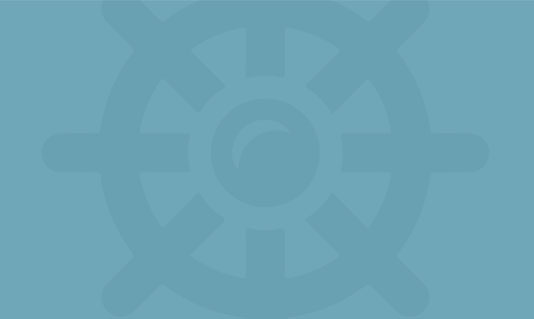
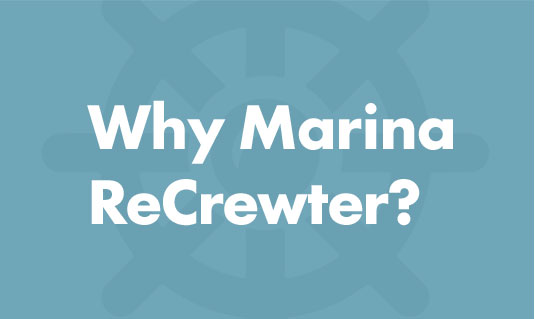
last minute fixes

diff --git a/jobportal/css/customize.css b/jobportal/css/customize.css
@@ -217,7 +217,7 @@ p{ text-align:justify; }
 	text-transform: capitalize;
 }
 .services .head,
-.what-do .head p{ line-height: 25px;}
+.what-do .head p{ text-align: center; line-height: 25px;}
 
 .services .head{ padding: 0 0 12px;}
 /*.what-do .head h2 span {
@@ -730,7 +730,7 @@ p{ text-align:justify; }
 }
 .image-section .butn.cv:hover{ background:#6d9cac url(../images/ico-captain.png) no-repeat 12% 50%; }
 .image-section .image{
-	padding:0 2px;
+	padding:0;
 	margin:0 0 10px;
 	overflow:hidden;
 }
@@ -974,8 +974,7 @@ p{ text-align:justify; }
 	background:url(../images/popup-bg.jpg) no-repeat center top;
 	background-size:cover;
 	padding:20px 0;
-	position:relative;
-	z-index:9999;
+	overflow:auto !important;
 }
 .popup .container{ position:relative; }
 .popup .ico-close{
@@ -1352,7 +1351,7 @@ p{ text-align:justify; }
 		display:block;
 		background:#2d4658 url(../images/ico-enquire.png) no-repeat 25% 50%;
 		font-size:31px;
-		line-height:82px;
+		line-height:86px;
 		font-weight:bold;
 		border-radius:0;
 		text-align:center;
@@ -1365,7 +1364,7 @@ p{ text-align:justify; }
 	}
 	.image-section .butn.cv:hover{ background:#6d9cac url(../images/ico-captain.png) no-repeat 12% 50%; }
 	.image-section .image{
-		padding:0 2px;
+		padding:0;
 		margin:0 0 10px;
 	}
 	.note{

diff --git a/jobportal/crew.php b/jobportal/crew.php
@@ -55,10 +55,13 @@
 			</div>
 		</div>
 	</div>
-	<section class="what-do">
+	<a href="#myModal3" role="button" data-toggle="modal">
+	  <section class="what-do">
         <div class="container head">
-          <h2><span>CONSULTANCY/ADVICE</span></h2>
-          <p>Whether you are an experienced candidate or a new talent, it is our goal to help advance your career and hopefully contribute to securing your next job. We are committed to assist and advice. You will be supported by our hands-on approach, an honest assessment matching realistic opportunities.</p>
+          <h2><span>WHY Marina ReCrewter? </span></h2>
+          <p>We have experienced firsthand the effects of not having the right profile on board; inadequate manning requirements, high turnover – increased costs and most importantly the dissatisfaction of Owners and Guests. Getting the right candidate first time is our priority. </p>
         </div>
 	</section>
+</a>
+<?php  include('popup.php');?>
 <?php include('include/footer.php');?>

diff --git a/jobportal/advice.php b/jobportal/advice.php
@@ -29,8 +29,8 @@
 <a href="#myModal3" role="button" data-toggle="modal">
 	  <section class="what-do">
         <div class="container head">
-          <h2><span>Candidates – Work &amp; Live Your Dream!</span></h2>
-          <p>Whether you are an experienced candidate or a new talent, it is our goal to help advance your career and hopefully contribute to securing your next job. We are committed to assist and advice. You will be supported by our hands-on approach, an honest assessment matching realistic opportunities.</p>
+          <h2><span>WHY Marina ReCrewter? </span></h2>
+          <p>We have experienced firsthand the effects of not having the right profile on board; inadequate manning requirements, high turnover – increased costs and most importantly the dissatisfaction of Owners and Guests. Getting the right candidate first time is our priority. </p>
         </div>
 	</section>
 </a>

diff --git a/jobportal/candidates.php b/jobportal/candidates.php
@@ -44,10 +44,13 @@
 		<p>Are you determined to join, do you want to pursue a career in yachting?</p>
 		<span class="note">For any requests or further information, please contact us.</span>
 	</div>
-	<section class="what-do">
+	<a href="#myModal3" role="button" data-toggle="modal">
+	  <section class="what-do">
         <div class="container head">
           <h2><span>WHY Marina ReCrewter? </span></h2>
           <p>We have experienced firsthand the effects of not having the right profile on board; inadequate manning requirements, high turnover – increased costs and most importantly the dissatisfaction of Owners and Guests. Getting the right candidate first time is our priority. </p>
         </div>
 	</section>
+</a>
+<?php  include('popup.php');?>
 <?php include('include/footer.php');?>
